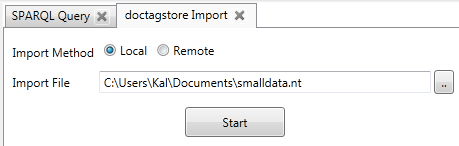
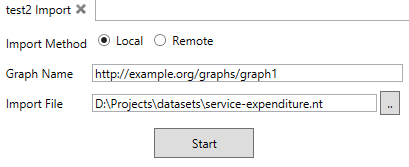
Updated docs for Polaris import operation

diff --git a/doc/src/Using_Polaris.rst b/doc/src/Using_Polaris.rst
@@ -294,7 +294,12 @@ To run a Remote import:
      Job from the popup menu.
 
   #. In the interface that is displayed, change the Import Method radio 
-     button selection to Remote and enter the name of the file to be imported. 
+     button selection to Remote.
+
+  #. OPTIONAL: To have the data imported into a specific named graph in the
+     store, enter the full IRI of the target graph in the field labelled Graph Name.
+     
+  #. Enter the name of the file to be imported in the field labelled Import File.
      Do not specify the path to the file, just the file name - the server will 
      only look for this file in its Import directory.
 
@@ -304,6 +309,13 @@ To run a Remote import:
      but you can at any time exit Polaris and the job will continue to run on 
      the server.
 
+.. note::
+
+    The IRI entered in the Graph Name field is used only to provide a default graph
+    if the data itself does not specify a graph. When importing from formats that 
+    include graph information (e.g. N-Quads), the graph information contained in the
+    file will always override the graph specified in the Polaris UI.
+    
 .. image:: Images/polaris04.png
 
 To run a Local import:
@@ -312,7 +324,12 @@ To run a Local import:
      store the data is to be imported into and clicking Store > New > Import Job.
 
   #. In the interface that is displayed, ensure the Import Method is set to 
-     Local and enter the full path to the file to be imported - you can use the 
+     Local.
+
+  #. OPTIONAL: To have the data imported into a specific named graph in the
+     store, enter the full IRI of the target graph in the field labelled Graph Name.
+     
+  #. Enter the full path to the file to be imported. Alternatively, you can use the 
      .. button to launch a file browser to locate the file.
 
   #. Click on the Start button.
@@ -327,7 +344,7 @@ To run a Local import:
 .. note::
 
   Local import is not recommended for large data files. If the file you try 
-  to import exceeds 50MB in size a warning will be displayed - you may still 
+  to import exceeds 50MB in size a warning will be displayed. You may still 
   continue with the import, but you may experience better performance if you 
   copy the data file to the server's import folder and use a Remote import 
   instead. This even applies to the case where the server connection type is 

diff --git a/doc/src/Whats_New.rst b/doc/src/Whats_New.rst
@@ -19,6 +19,8 @@ marked with FIX.
 
     - NEW: The W3C SPARQL 1.1 Graph Store Protocol is now implemented by the BrightstarDB service. See :ref:`SPARQL_Endpoint` for more information.
     
+    - NEW: The Polaris UI now allows the default graph IRI to be specified for import operations. Thanks to Daniel Bryars for this contribution.
+    
 ****************************
  BrightstarDB 1.8 Release
 ****************************
